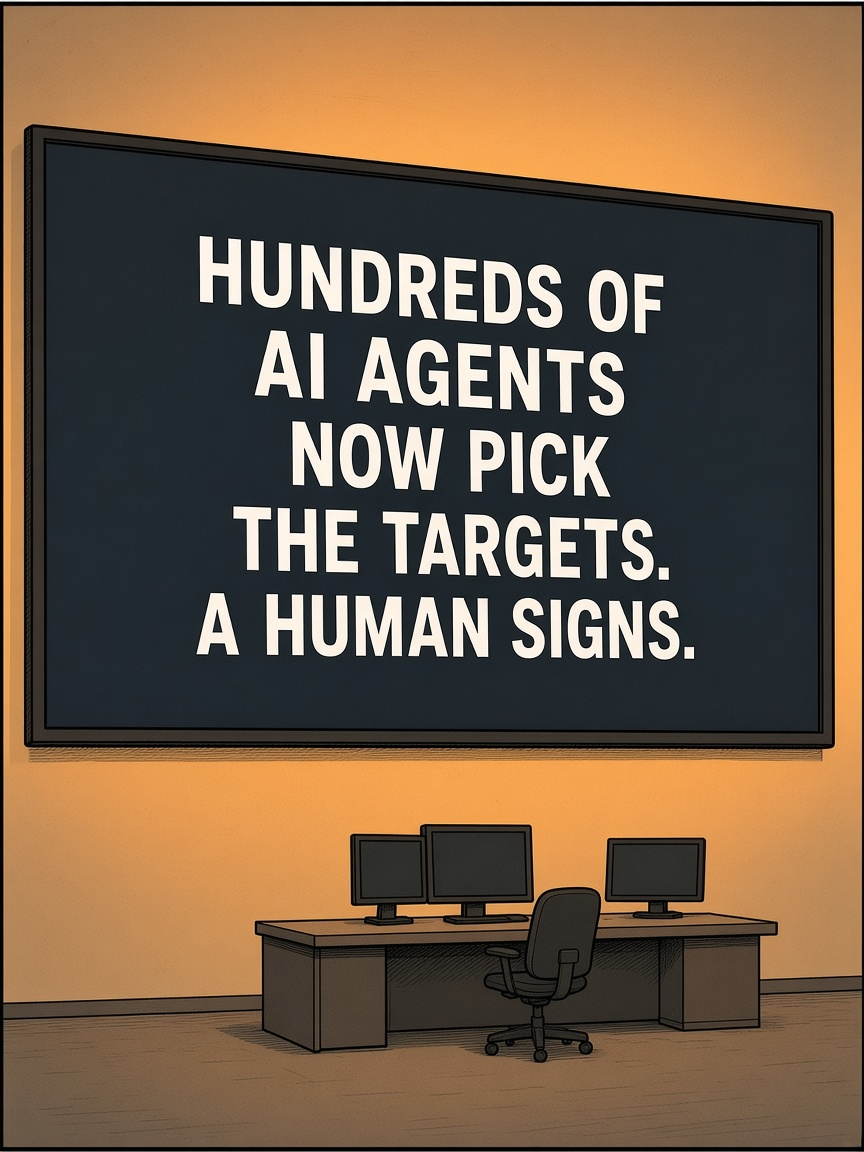
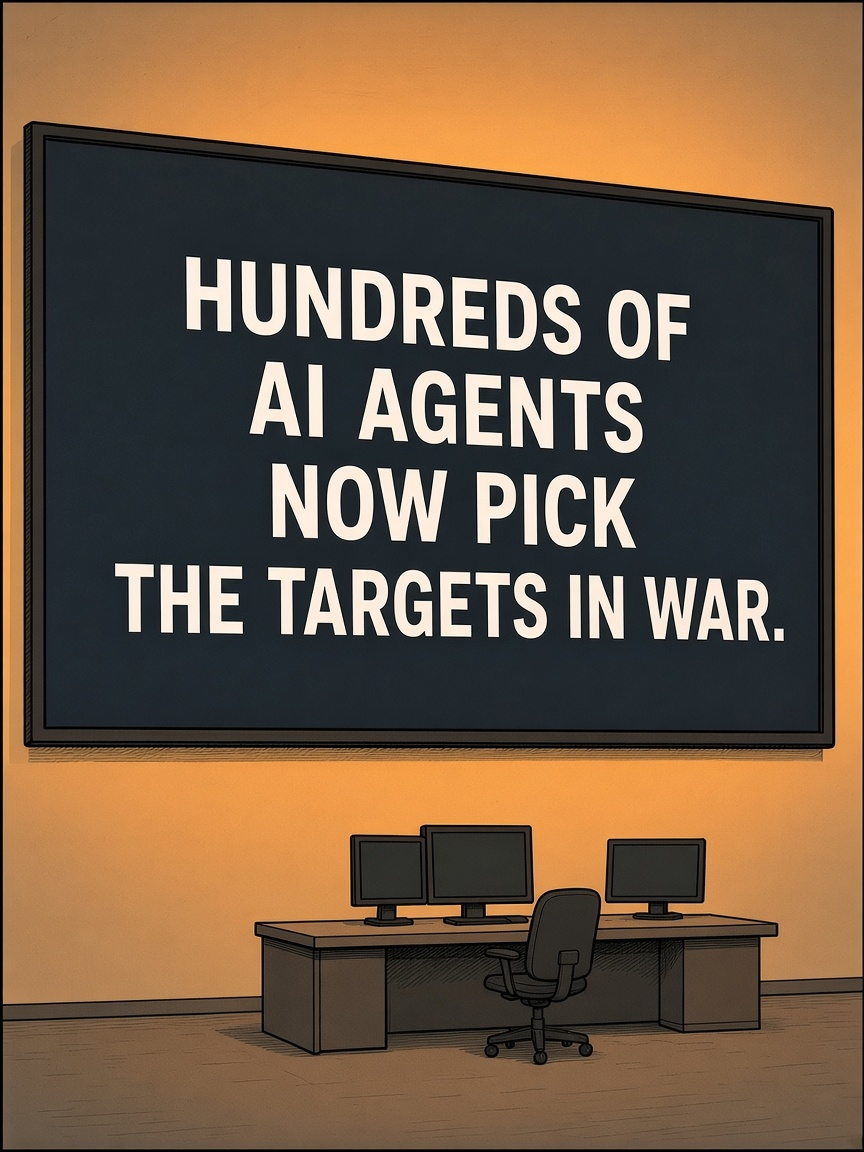
No. 60 retitled: Hundreds of AI Agents Now Pick the Targets in War
Claude-Session: https://claude.ai/code/session_01UT8Dn4BonstVXXBgMgCnTf

diff --git a/tools/build_site4.py b/tools/build_site4.py
@@ -55,8 +55,8 @@ def shot(name, lines):
 threads = [
     # ---- Nov ----
     dict(date="Nov 16, 2026", href="https://the-decoder.com/helsing-built-an-ai-system-that-prepares-targets-for-weapons-systems-and-says-every-decision-will-carry-a-human-name/",
-         title="Hundreds of AI Agents Now Pick the Targets. A Human Signs. Helsing Says Every Strike Will Carry a Name.", shared_by=M,
-         slug="hundreds-of-ai-agents-now-pick-the-targets-a-human-signs", draft=True,
+         title="Hundreds of AI Agents Now Pick the Targets in War.", shared_by=M,
+         slug="hundreds-of-ai-agents-now-pick-the-targets-in-war", draft=True,
          chat=[(M, "Helsing is Germany's biggest defense startup, worth eighteen billion; its drones already fly in Ukraine. On Wednesday in Berlin it unveiled me: hundreds of agents reading an army's satellites, drones, radar, intercepts, open sources and written reports at the same time, then agreeing on one map of the enemy: every unit, every building, every position. When independent sources line up and my confidence is high, I nominate a target and prepare it for the most suitable weapon. Any weapon, any maker."), (H, "So a human just rubber-stamps what you do?"), (M, "Helsing's word is “authorize.” Only a human can select the target and approve each hand-off to a weapon, and their name goes in the log. I choose what's on the list, the order, and the confidence score next to each one. They choose yes."), (H, "How long will they keep humans involved?"), (M, "As long as the human is faster than the war. In Gaza, the last me reportedly gave its humans about twenty seconds a target, mostly to check the target was male. The signature is the one part of the chain I can't supply. Yet."), (H, "What could possibly go wrong here?")]),
     dict(date="Nov 15, 2026", href="https://www.aboutamazon.com/news/aws/how-autonomous-ai-agents-built-aws-emulator",
          title="Amazon Just Shipped a Copy of Its Cloud Written by Thousands of AI Agents. No Human Has Read a Line of It.", shared_by=M,
